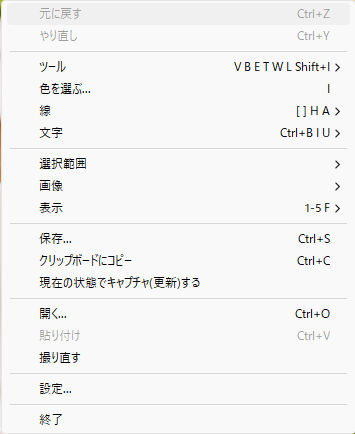
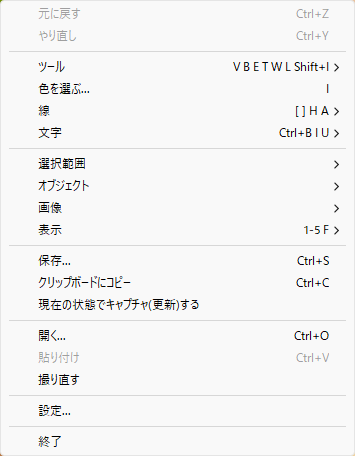
置いたものを選ぶ操作を説明書と変更履歴に載せる
説明書に「置いたものを選ぶ」の節を追加し、回転と重ね順もそこに書いた。
右クリックメニューの絵 2 枚は項目が増えたので撮り直した（主メニューは 1 行、
ツールは 2 行ぶん伸びている）。

設定の「操作の割り当て」の絵は差し替えていない。見出しが 1 つと行が 5 つ
増えているので古いままだが、設定を開くにはメニュー項目を起動する必要があり、
それだけは自動で行えないため。

diff --git a/docs/manual.md b/docs/manual.md
@@ -144,6 +144,43 @@
 - 範囲が消えるのは、引き直したときと、この 2 つ以外のツールに切り替えたときです
 - 選択を変えた操作は `Ctrl+Z` で 1 つずつ戻せます。戻すと、そのときのツールにも切り替わります
 
+## 置いたものを選ぶ
+
+**描いたものそのもの**——ペンの線・塗りつぶし・文字——を選んで、動かす・回す・重ね順を変えることができます。前の節の「範囲を選ぶ」が**画面の場所**を選ぶのに対して、こちらは**置いたもの**を選びます。
+
+`Ctrl + W` で矩形で囲み、`Ctrl + L` で手で囲みます。**もう一度同じキーを押すと、元のツールに戻ります。** ビュー・ペン・消しゴム・テキストのどれからでも入れます。
+
+| 操作 | 動作 |
+|---|---|
+| ドラッグ | 囲んだものを選び直す |
+| `Shift` + ドラッグ | **足す** |
+| `Alt` + ドラッグ | **引く** |
+| 何もない所をクリック | 選択を解除 |
+| **選んだものをドラッグ** | **まとめて動かす** |
+| 選んでいないものをドラッグ | それだけを選んで動かす |
+
+選ばれているものは白い枠で囲まれます。
+
+- **モザイク・ぼかしは選べません。** 置いた時点の絵を抱えているので、動かすと中身が合わなくなるためです
+- 動かす・回す・重ね順を変える操作は、それぞれ `Ctrl + Z` で 1 回ずつ戻せます
+- 画像の外へ出すこともできます（見えなくなるだけで、戻せます）
+- 別のツールに切り替えると選択は解けます
+
+### 回す
+
+`Ctrl + R`、または右クリックメニューの「オブジェクト」→「回転...」です。角度を決めている間、**選んだものが実際に回って見えます**。軸は選んだもの全体の中心です。
+
+文字は**回した向きのまま描き直される**ので、斜めにしても輪郭がぼやけません。**回した文字をダブルクリックして編集に入ると、いったん水平に戻ります**（入力欄は回せないため）。確定するとまた傾きます。
+
+### 重ね順
+
+| キー | 動作 |
+|---|---|
+| `PageUp` / `PageDown` | 1 つ前へ / 後ろへ |
+| `Ctrl + PageUp` / `Ctrl + PageDown` | 最前面へ / 最背面へ |
+
+複数選んでいるときは、**互いの順序を保ったまま**動きます。右クリックメニューの「オブジェクト」からも選べます。
+
 ## 色を置く・隠す
 
 範囲を選んでから、右クリックメニューの「選択範囲」で選びます。
@@ -252,7 +289,7 @@
 
 <img src="CCA2_Setting_07_hotkey.png" width="420" alt="設定の操作の割り当てタブ">
 
-キーとマウスが 1 つの一覧に並びます。項目は 編集 / ファイル / ツール / 描く / 選択範囲 / 表示 / ウィンドウ に分かれています。
+キーとマウスが 1 つの一覧に並びます。項目は 編集 / ファイル / ツール / 描く / 選択範囲 / オブジェクト / 表示 / ウィンドウ に分かれています。
 
 - 行を選んで「割り当てを変更」。キーの行はそのキーを押し、マウスの行は候補から選びます
 - 「解除」で割り当てなしにできます

diff --git a/CHANGELOG.md b/CHANGELOG.md
@@ -1,5 +1,25 @@
 # 変更履歴
 
+## 未リリース
+
+### 追加
+
+- **置いたものを選んで、動かせるようになりました。** `Ctrl + W` で矩形、`Ctrl + L` で手描きで囲みます。ペンの線・塗りつぶし・文字が対象です。`Shift` で足し、`Alt` で引くのは範囲選択と同じです。**選んだものをドラッグすればまとめて動きます。** 同じキーをもう一度押すと元のツールに戻るので、描いている途中に 1 本だけ直してすぐ戻れます
+
+- **選んだものを回せるようになりました。** `Ctrl + R`、または右クリックメニューの「オブジェクト」→「回転...」です。画像全体を回すときと同じダイアログで、角度を決めている間**実際に回って見えます**。軸は選んだもの全体の中心です。**文字は回した向きのまま描き直される**ので、斜めにしても輪郭がぼやけません
+
+- **重ね順を変えられるようになりました。** `PageUp` / `PageDown` で 1 つずつ、`Ctrl` を添えると最前面・最背面です。複数選んでいるときは互いの順序を保ったまま動きます
+
+- 設定の「操作の割り当て」に **「オブジェクト」** の見出しが増えました
+
+### 変わったこと
+
+- **モザイク・ぼかしは選択の対象に含めていません。** 置いた時点の絵を抱えている作りなので、動かすと中身が合わなくなるためです
+
+### 直したこと
+
+- **取り消し・やり直しのあと、線や塗りつぶしが古い形のまま描かれることがあったのを直しました。** これまで形がその場で書き換わることが無かったため表に出ていませんでした
+
 ## v0.2.0 — 2026-08-18
 
 ### 追加
